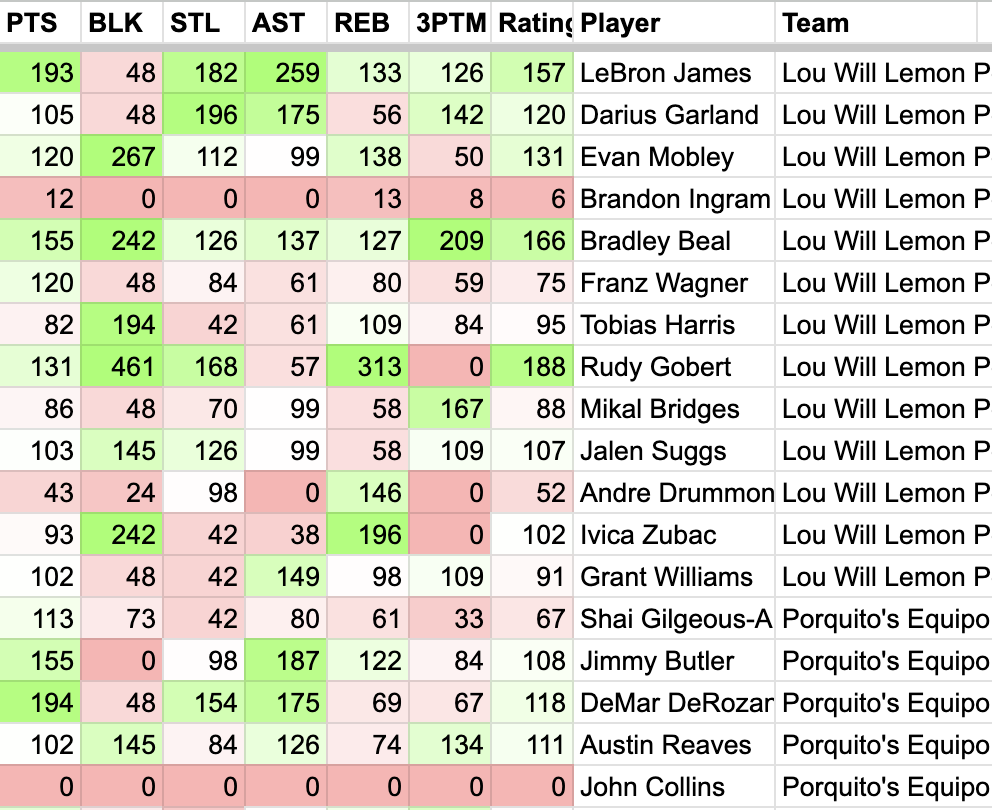
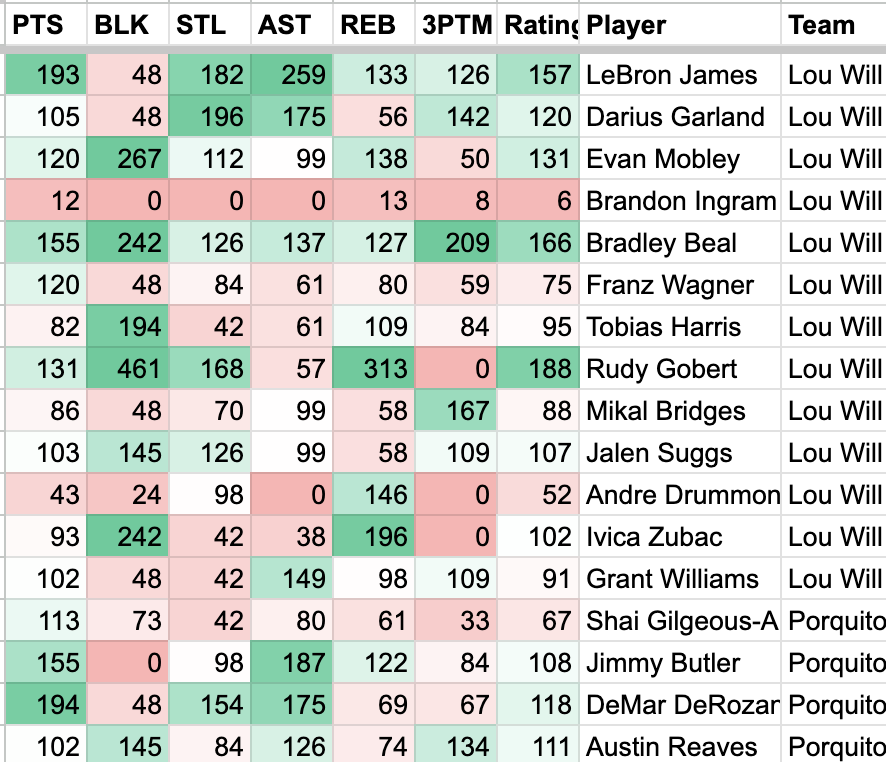
shift green hue

diff --git a/library/worksheets.py b/library/worksheets.py
@@ -71,7 +71,7 @@ def formatWorksheet(worksheet, columns=4):
         value="100",
     )
     maxPoint = gsf.InterpolationPoint(
-        color=gsf.Color(0.6, 1, 0.4),
+        color=gsf.Color(0.3, 0.8, 0.6),
         type="NUMBER",
         value="200",
     )
